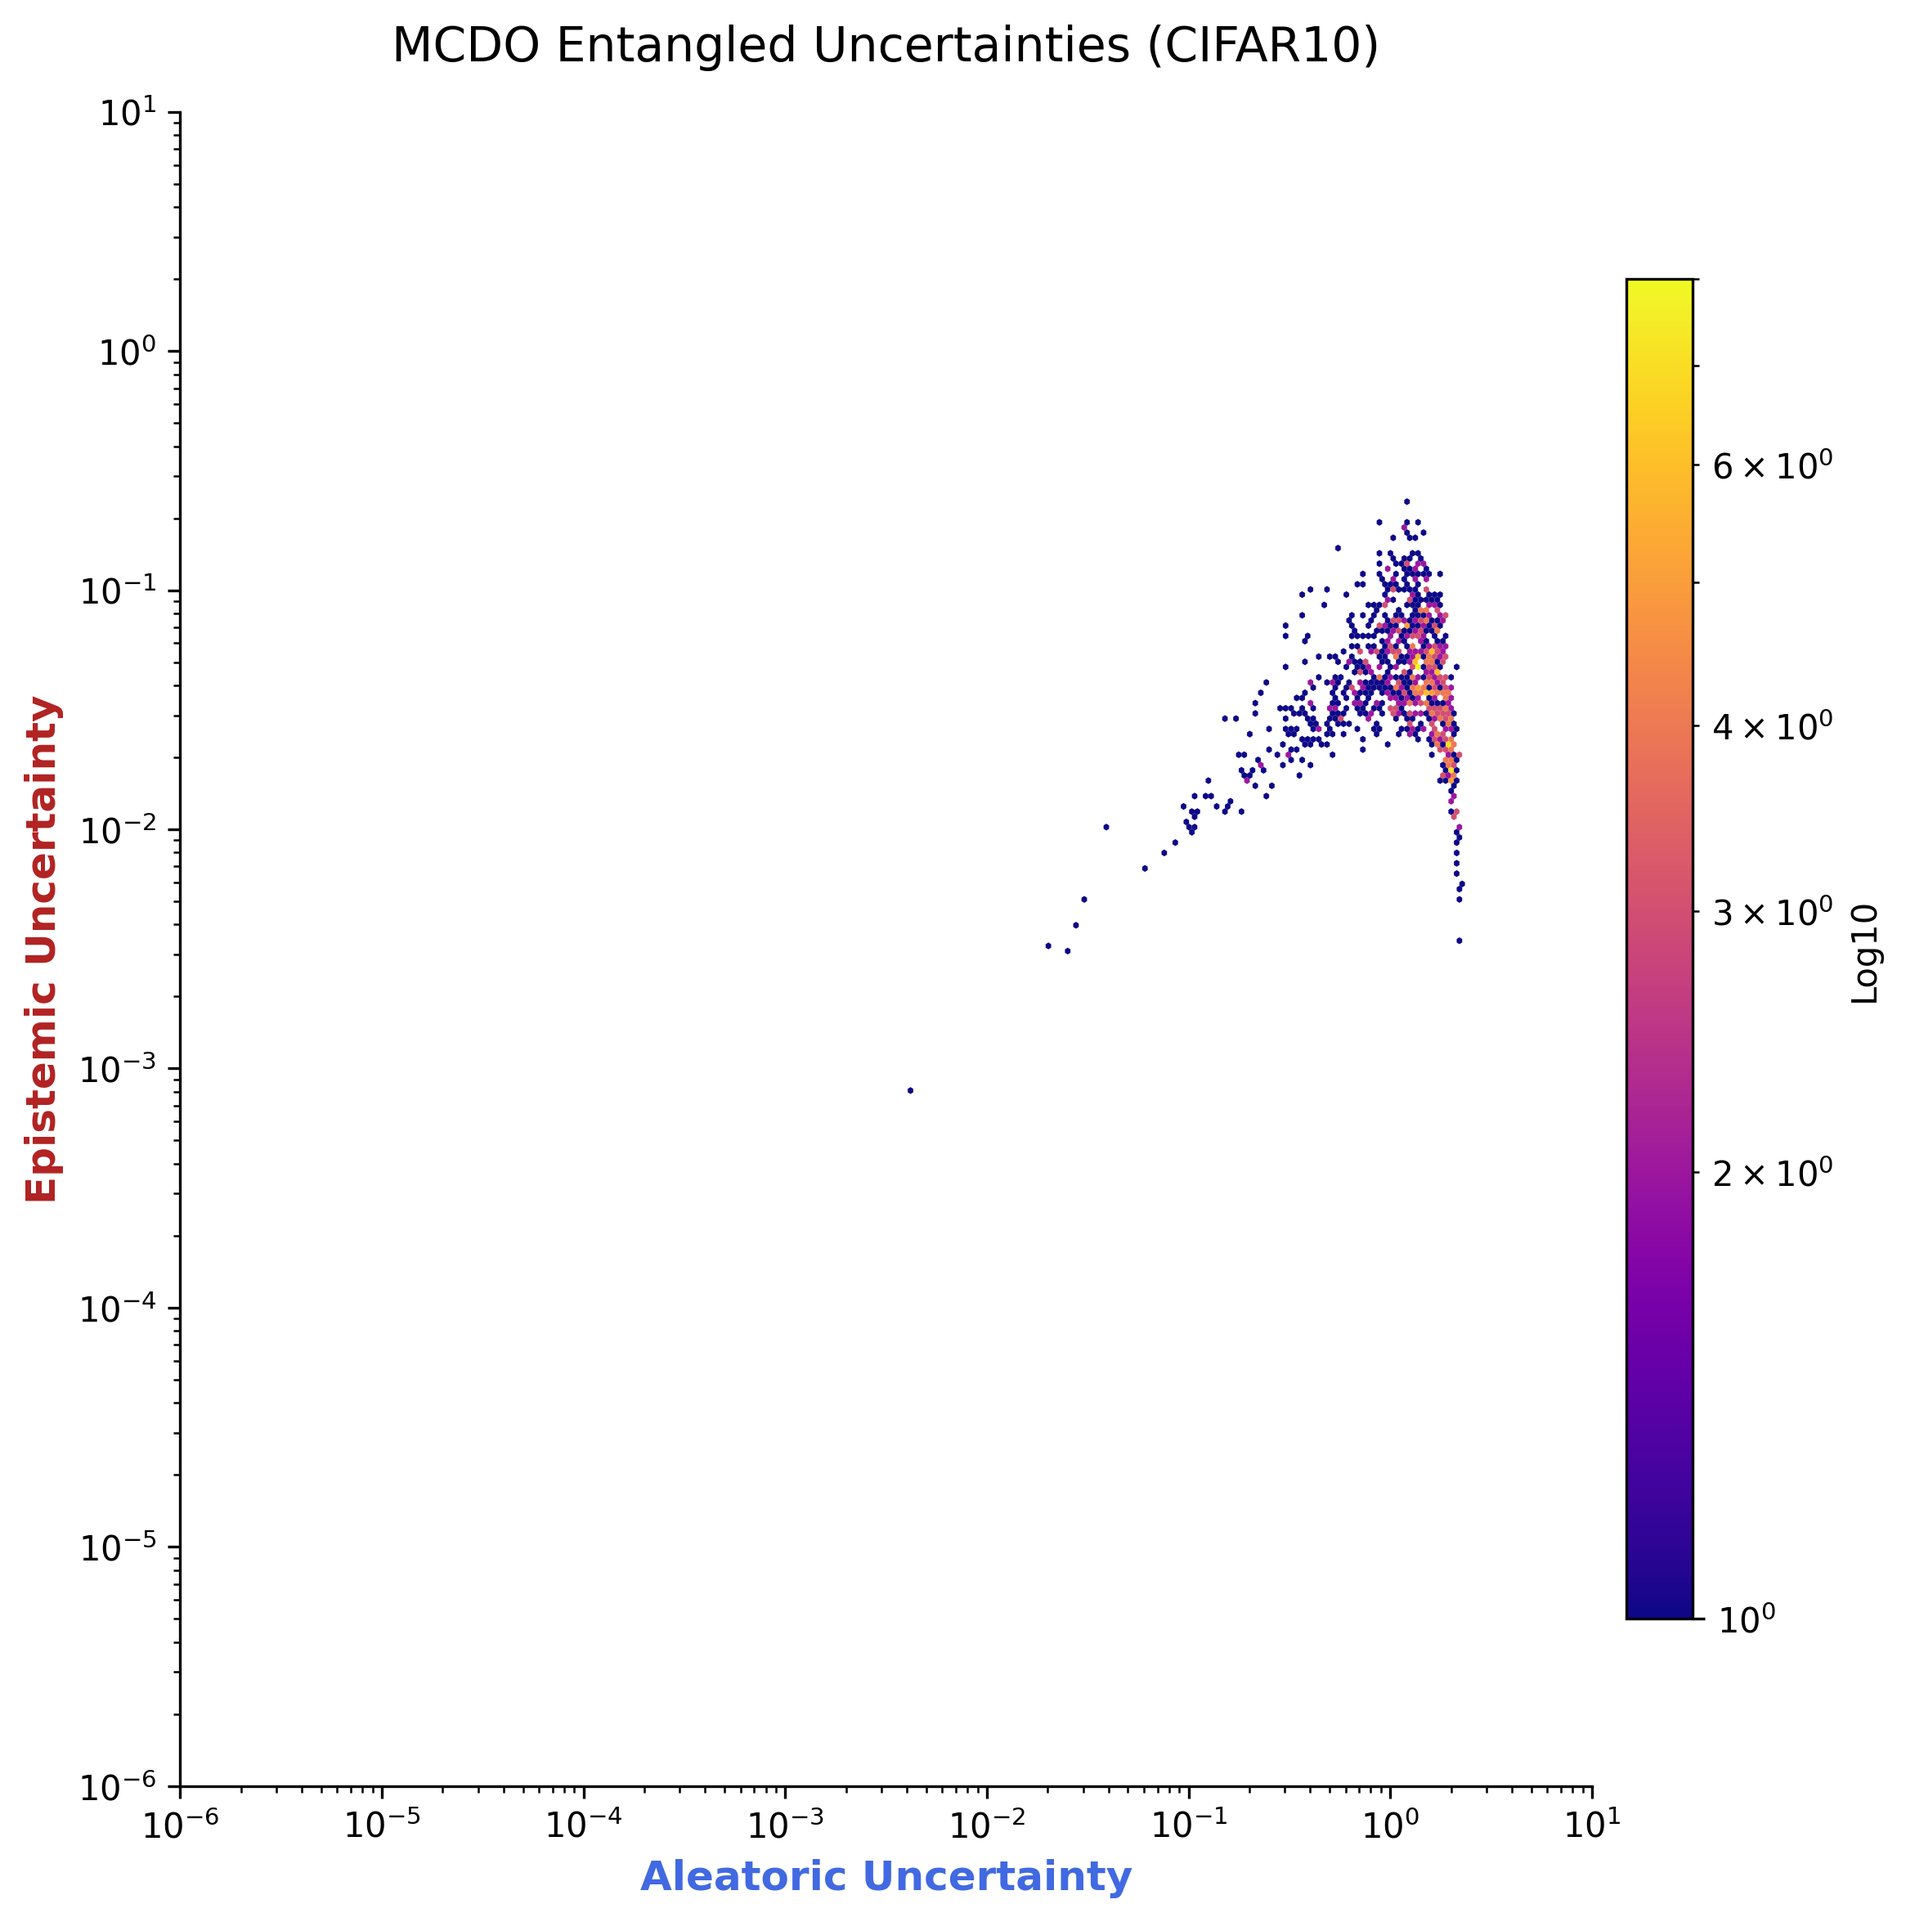
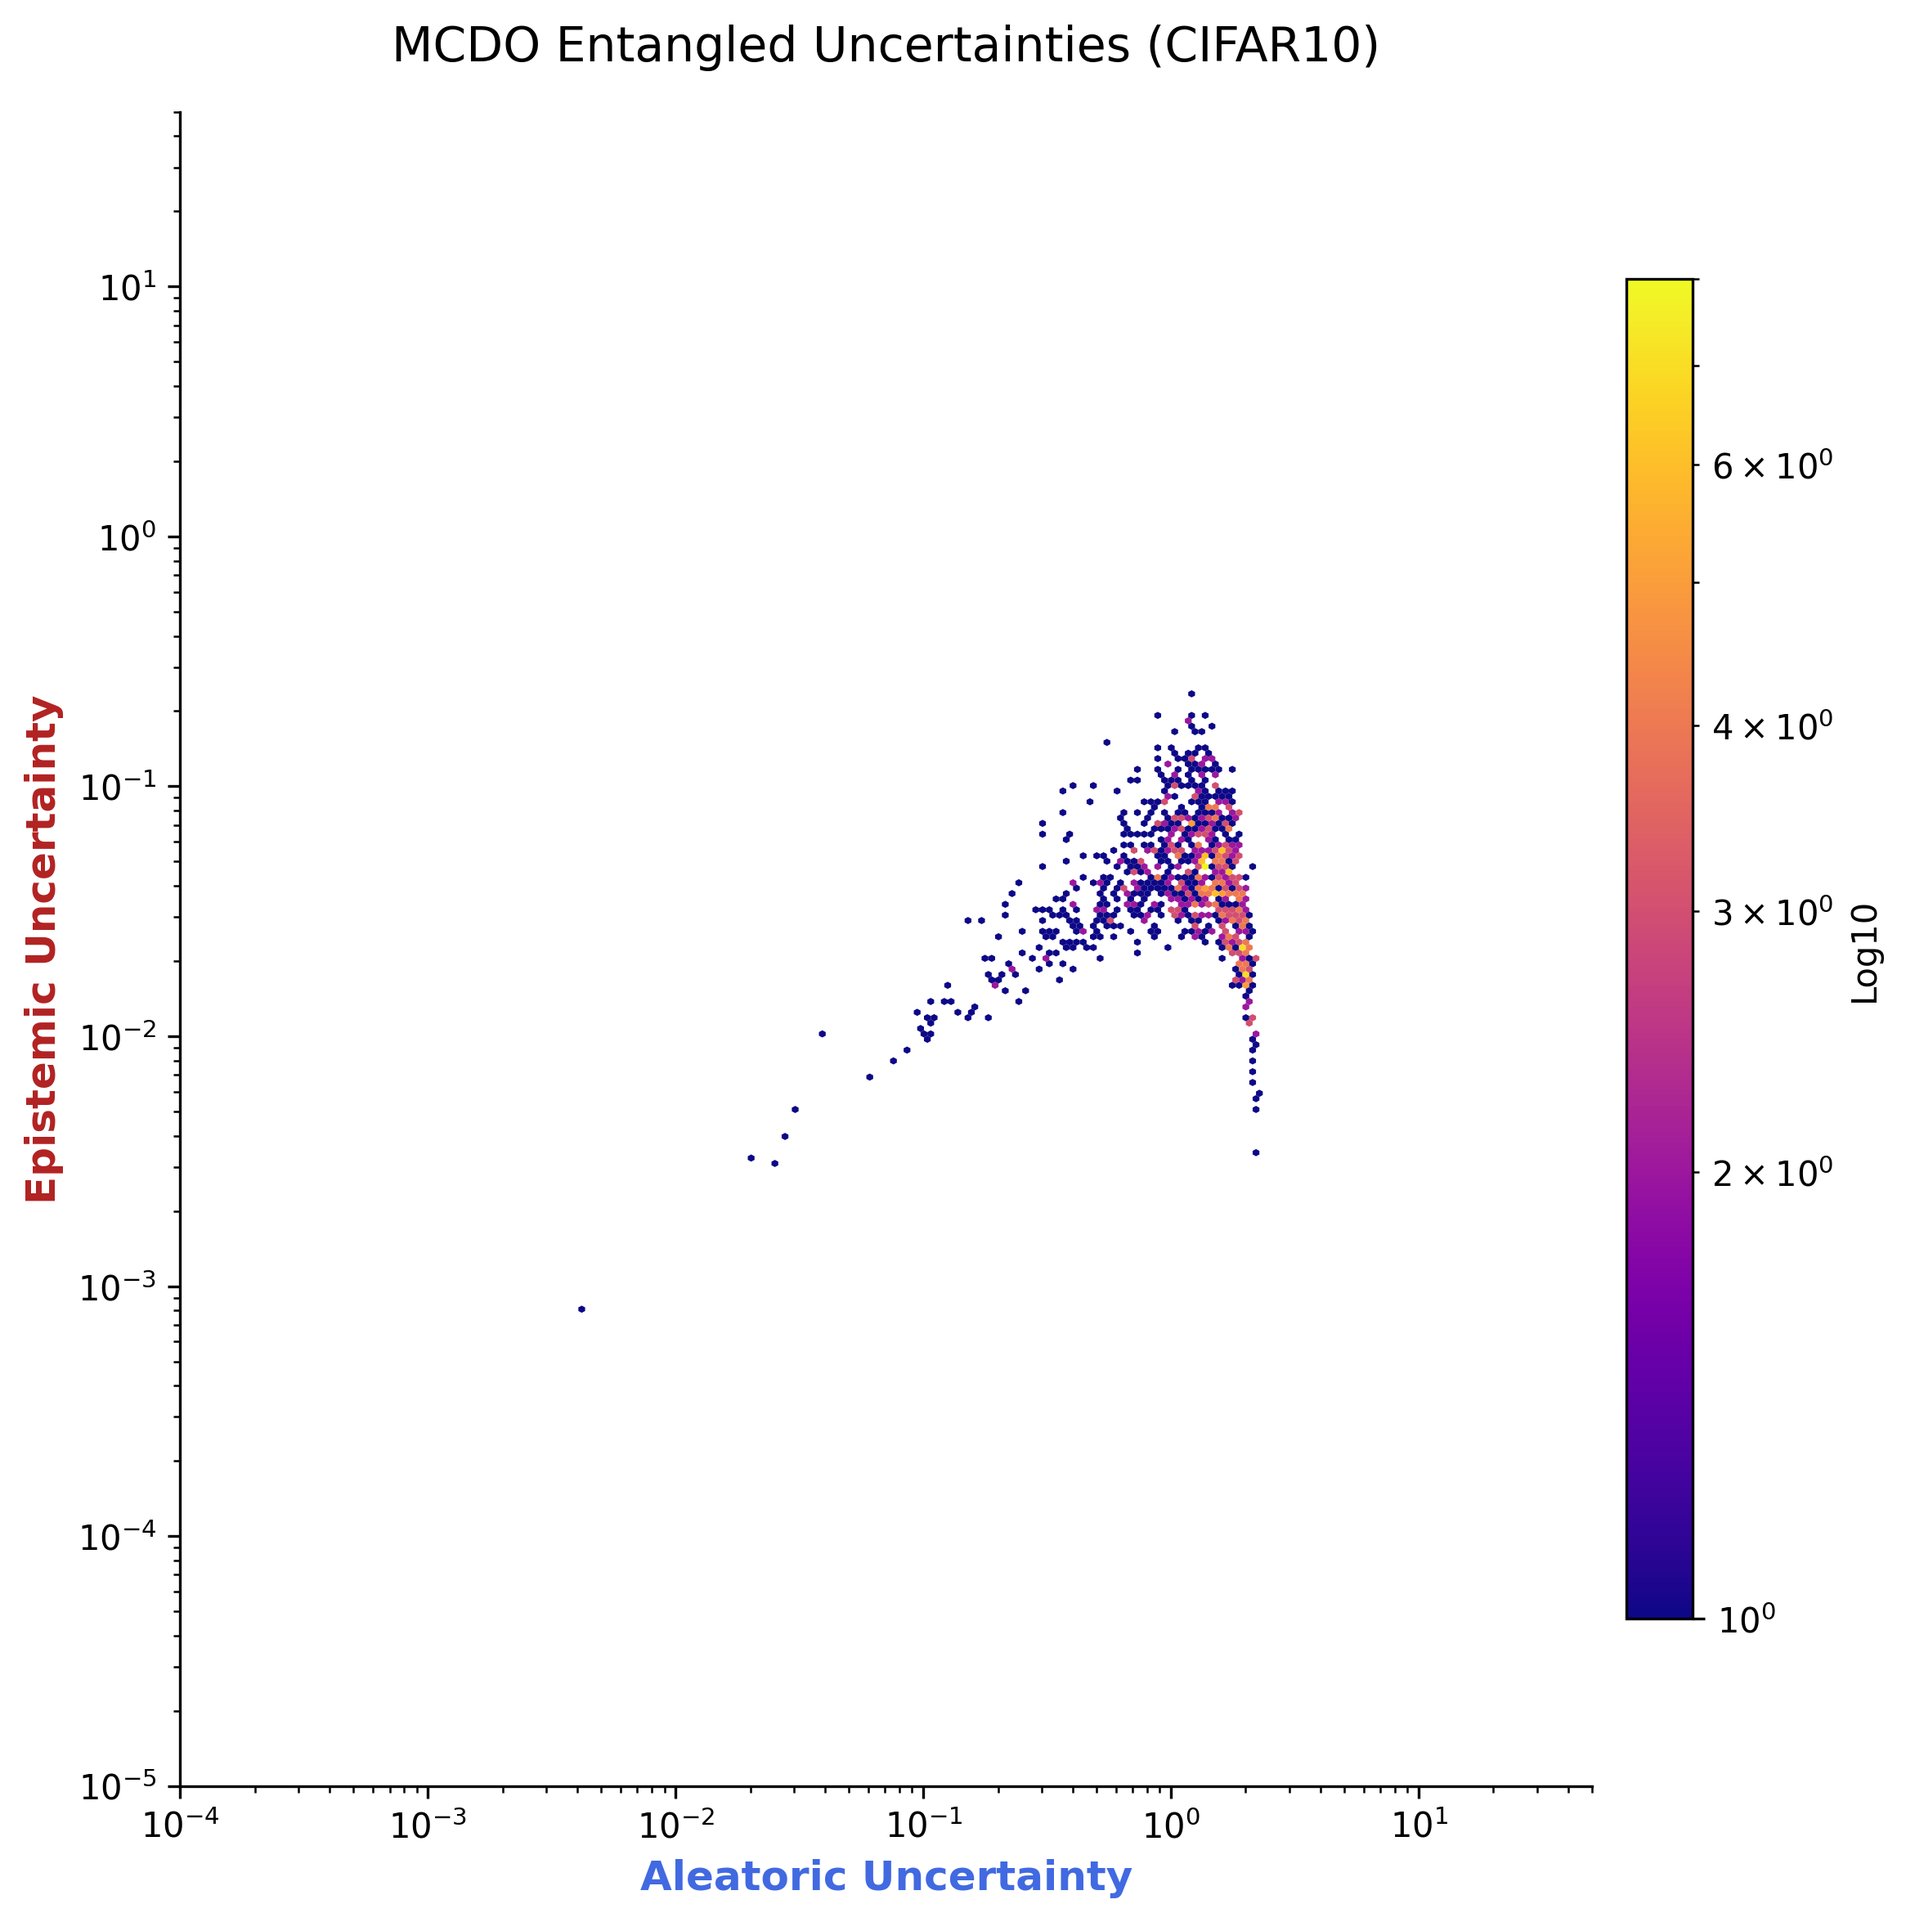
chore: consolidate empty code change entries for clarity

diff --git a/make_plots.py b/make_plots.py
@@ -17,17 +17,27 @@ from helper_functions import (
 #takes format: algoname_datasetname_preds.pkl
 #example: mcdo_mnist_preds.pkl
 #example: quam_emnist_preds.pkl
-ALGORITHM_NAME = "quam"
-DATASET_NAME = "cifar10"
+ALGORITHM_NAME = "ensembles"
+DATASET_NAME = "mnist"
 INPUT_FILE = f"data/{ALGORITHM_NAME}_{DATASET_NAME}_preds.pkl"
 RESULTS_DIR = "results"
-MATH_SETTING = "B"
+MATH_SETTING = "A"
 N_SAMPLES = 1000
 
 PLOT_SETTINGS = {
     "mnist":   {"x_lim": (1e-13, 1e1), "y_lim": (1e-14, 1e0)},
     "emnist":  {"x_lim": (1e-13, 1e1), "y_lim": (1e-14, 1e0)},
-    "cifar10": {"x_lim": (1e-6, 1e1),  "y_lim": (1e-1, 20e1)}
+    "cifar10": {"x_lim": (1e-4, 5e1),  "y_lim": (1e-5, 5e1)}   
+    #setting a 
+    # cifar10 
+    # mcdo : {"x_lim": (1e-4, 5e1),  "y_lim": (1e-5, 5e1)}   
+    # quam : "cifar10": {"x_lim": (1e-3, 5e0),  "y_lim": (1e-1, 1e1)} 
+
+    # setting b 
+    # cifar10 
+    # mcdo : {"x_lim": (1e-4, 5e1),  "y_lim": (1e-5, 5e1)} 
+    # quam: {"x_lim": (1e-4, 1e1),  "y_lim": (1e-2, 5e2)}
+    
 }
 current_limits = PLOT_SETTINGS[DATASET_NAME]
 
@@ -96,5 +106,3 @@ plot_uncertainty_correlation(
     x_lims=current_limits["x_lim"], 
     y_lims=current_limits["y_lim"]
 )
-
-#----------------EVALUATING-RETENTION-(MISCLASS)----------------------
